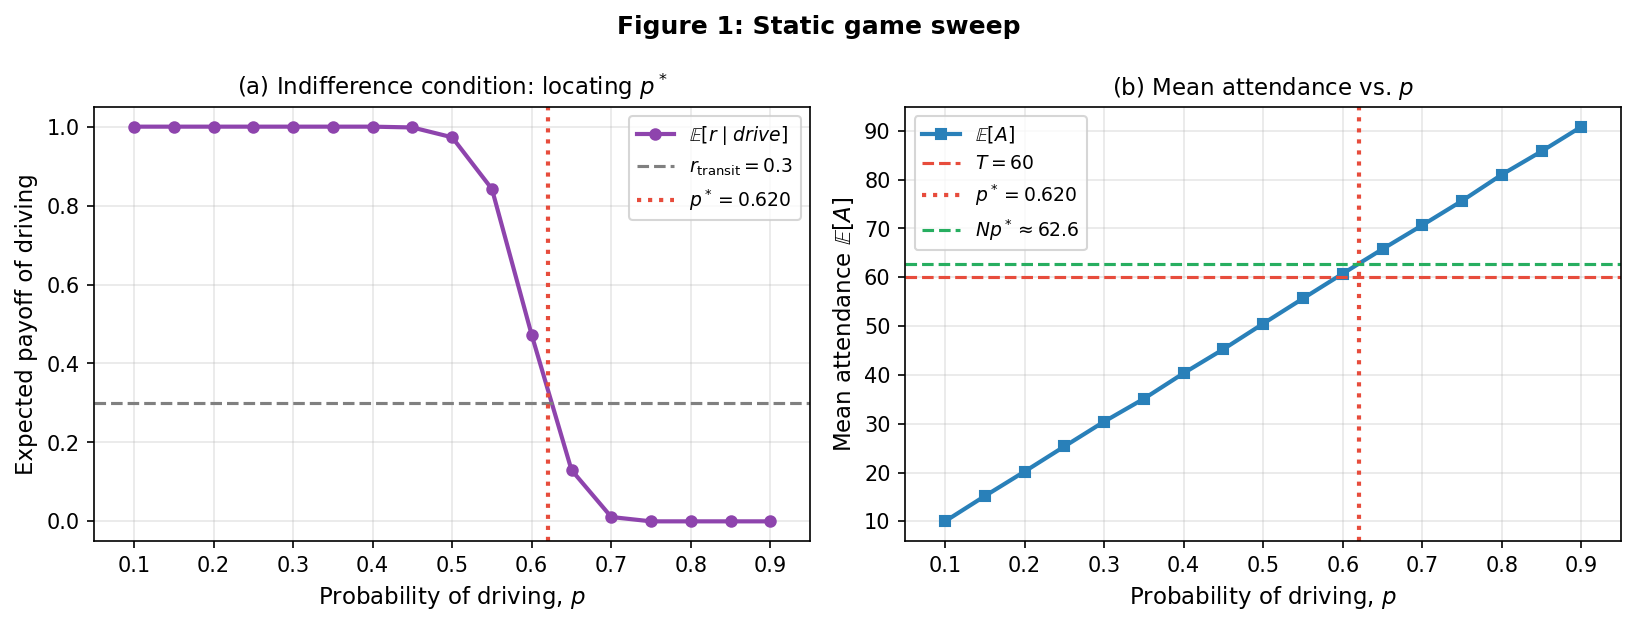
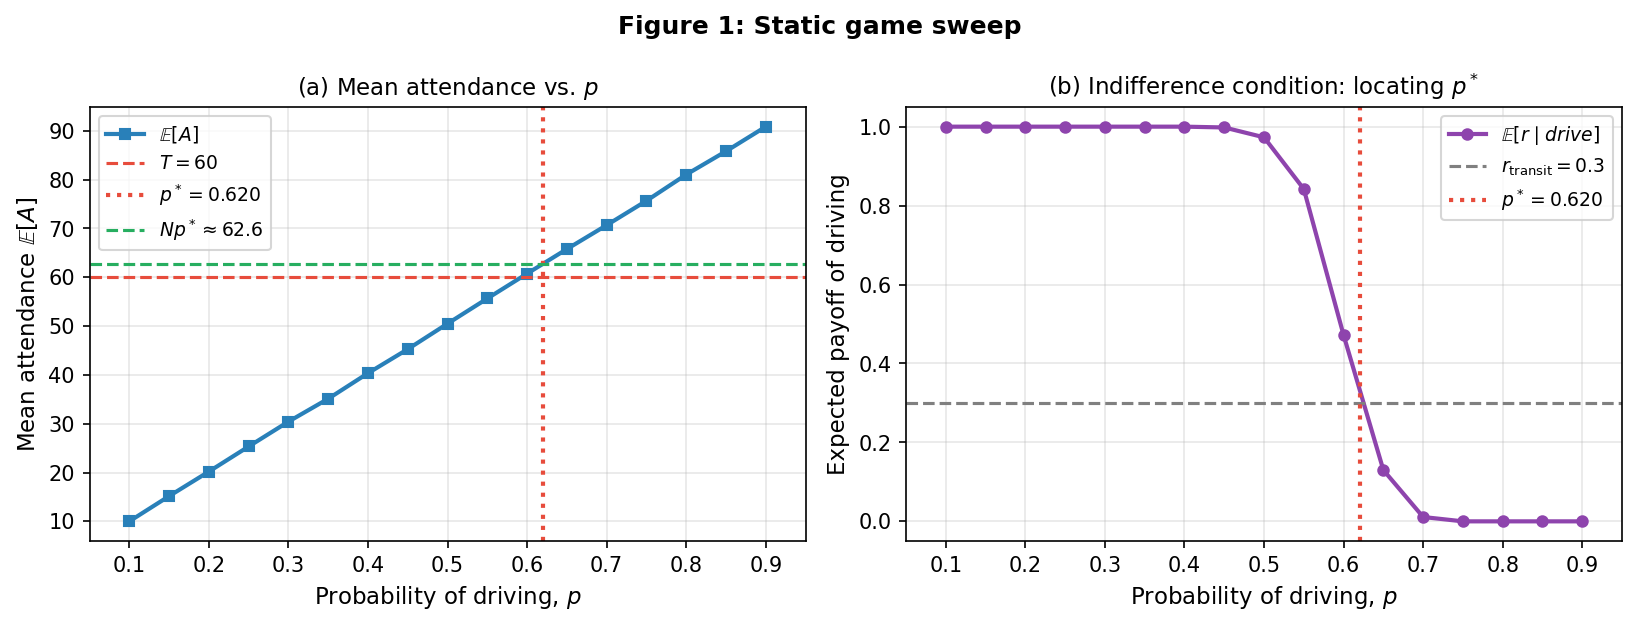
added welfare analysis and ablation, restructured to align with the gs, added real world discussions thru-out, added deeper theoretical analysis

diff --git a/report/my_report.md b/report/my_report.md
@@ -12,7 +12,7 @@ We study the minority game in the context of urban commuting, where 101 workers 
 
 ### 1.1 Motivating Context
 
-Every weekday morning, $N=101$ workers decide independently whether to **drive** or use **alternative transport** (public transit). The road has a capacity $T=60$: when at most 60 cars use it, traffic flows freely; when more than 60 enter, all drivers experience congestion. This is a **minority game**: a driver benefits only by being in the minority who chose to drive. The minority-game structure distinguishes this from coordination games (where agents want to match others' choices) and motivates adaptive rather than equilibrium-based decision-making.
+Every weekday morning, $N=101$ workers decide independently whether to **drive** or use **alternative transport** (public transit). The road has a capacity $T=60$: when at most 60 cars use it, traffic flows freely; when more than 60 enter, all drivers experience congestion. This is a minority game (Challet & Zhang, 1997): a driver benefits only by being in the minority who chose to drive. The minority-game structure distinguishes this from coordination games (where agents want to match others' choices) and motivates adaptive rather than equilibrium-based decision-making.
 
 ### 1.2 Normal-Form Game
 
@@ -99,16 +99,12 @@ In real commuting terms: a city that can direct exactly 60 daily drivers through
 
 ### 3.1 Numerical Verification of $p^*$
 
-Running 1,000 independent single-shot games for each $p \in \{0.10, 0.15, \ldots, 0.90\}$ confirms the analytical prediction. **Figure 1(a)** shows $\mathbb{E}[r \mid \textit{drive}]$ declining from near 1 at low $p$ to near 0 at high $p$, crossing $r_{\text{transit}} = 0.3$ precisely at $p^* \approx 0.62$, matching the Brent-method solution. **Figure 1(b)** plots mean attendance across the same sweep, confirming $\mathbb{E}[A] = Np^* \approx 62.6$ at the crossing point.
+Running 1,000 independent single-shot games for each $p \in \{0.10, 0.15, \ldots, 0.90\}$ confirms the analytical prediction. **Figure 1(a)** plots mean attendance across the same sweep, confirming $\mathbb{E}[A] = Np^* \approx 62.6$ at the crossing point. **Figure 1(b)** shows $\mathbb{E}[r \mid \textit{drive}]$ declining from near 1 at low $p$ to near 0 at high $p$, crossing $r_{\text{transit}} = 0.3$ precisely at $p^* \approx 0.62$, matching the Brent-method solution.
 
 ![Figure 1](figure1_static_sweep.png)
-*Figure 1: (a) Indifference condition -- $\mathbb{E}[r \mid drive]$ crosses $r_\text{transit}=0.3$ at $p^*\approx 0.62$. (b) Mean attendance $\mathbb{E}[A]$ vs $p$ across the full sweep, with $T$ and $Np^*$ marked.*
-
-// ab 图交换位置
+*Figure 1: (a) Mean attendance $\mathbb{E}[A]$ vs $p$ across the full sweep, with $T$ and $Np^*$ marked. (b) Indifference condition -- $\mathbb{E}[r \mid drive]$ crosses $r_\text{transit}=0.3$ at $p^*\approx 0.62$.*
 
 ### 3.2 Attendance Distribution at $p^*$
-
-【把500run 向之前对齐到1000】
 
 **Figure 2** shows 1000 independent single-shot outcomes at $p = p^*$. The empirical mean is $62.55 \approx Np^* = 62.64$, empirical standard deviation $\sigma = 4.93$, and theoretical binomial standard deviation $\sqrt{Np^*(1-p^*)} = 4.88$, a near-perfect agreement validating simulation fidelity. Congestion ($A > T = 60$) occurs in **65.4%** of rounds.
 
@@ -134,11 +130,13 @@ Note that this constitutes a best response to the *previous* period's outcome, n
 ![Figure 3](figure3_best_response.png)
 *Figure 3: Stage-game best-reply -- permanent 0--101 oscillation. Mean payoff $= (0.3 + 0)/2 = 0.15$, below the transit-only payoff.*
 
-This is an **oscillatory anti-coordination regime**: homogeneity of strategies simultaneously coordinates overcrowding and complete avoidance, earning mean per-agent payoff $0.15$, half of the payoff $0.30$ achieved by any fixed strategy such as always driving, always using transit, or randomising at $p^*$. The dynamic instability of symmetric pure NE (Section 2.1) manifests here as a limit cycle. The result also shows that the symmetric mixed NE at $p^* = 0.62$ is not a dynamical attractor: no simple reactive rule applied uniformly by all agents converges to it.
+This is an oscillatory anti-coordination regime. Homogeneity of strategies simultaneously coordinates overcrowding and complete avoidance, earning mean per-agent payoff 0.15, half of the payoff 0.30 achieved by any fixed strategy such as always driving, always using transit, or randomising at p*.
 
-For commuting applications: a navigation system that broadcasts a single uniform recommendation to all users would replicate this failure. Universal adoption of a single reactive rule on a heavily used road creates the oscillatory pattern qualitatively consistent with periodic flow waves observed on instrumented ring roads.
+The dynamic instability of symmetric pure NE (Section 2.1) manifests here as a limit cycle: all agents apply the same rule to the same public signal At−1 perpetually overshoot in both directions rather than settling at any fixed point. The result also shows that the symmetric mixed NE at p*=0.62 is not a dynamical attractor: no simple reactive rule applied uniformly by all agents converges to it.
 
-This motivates the inductive approach, where agents use heterogeneous predictors to achieve coordination near the threshold without requiring common knowledge or communication.
+This failure is not specific to Best-Reply: it applies to any homogeneous reactive rule. For commuting applications, a navigation system broadcasting a single uniform recommendation replicates this failure, and universal adoption of one reactive rule produces oscillatory flow waves qualitatively consistent with those observed on instrumented ring roads (Cabannes et al., 2018).
+
+This motivates the inductive approach: heterogeneous predictors break the synchronisation that homogeneous rules cannot escape.
 
 ### 4.2 Inductive Strategies
 
@@ -192,7 +190,7 @@ Convergence is not the result of agents computing $p^*$. Rather, the **compositi
 
 - Stage-game best-reply: $0.150$ (oscillatory anti-coordination regime)
 - Uncorrelated random play at $p^*$: $\approx 0.300$ (mixed NE, as expected from the indifference condition)
-- Inductive (mean across seeds 42, 123, 7): $\approx 0.306$
+- Inductive (mean ac ross seeds 42, 123, 7): $\approx 0.306$
 
 Individual seed payoffs are [0.294, 0.300, 0.323], with seed 42 being the only seed that falls marginally below the 0.300 benchmark. The cross-seed mean exceeds the benchmark; results are not uniformly above it. The principal advantage of inductive agents over uncorrelated random play is not the raw payoff difference -- which is small -- but the **reduced congestion rate** (46% vs 65%) and lower variance in individual outcomes.
 
@@ -252,19 +250,17 @@ Note that the homogeneous result depends on which six predictors are randomly dr
 
 ### 6.1 Endogenous Coordination Without Communication
 
-The inductive model shows that individual commuters, each independently applying a personal decision model, can produce near-threshold attendance without explicit communication or central authority. The mechanism is the **composition of active predictors**: predictors forecasting below $T$ attract more drivers, increasing attendance toward congestion and thereby penalising those predictors; predictors forecasting above $T$ then gain score, reducing driving the following round. This feedback cycle operates entirely through distributed score updates. The result is the core finding of Arthur (1994): bounded-rational induction can produce coordination outcomes without the common-knowledge assumptions required by equilibrium reasoning.
+The inductive model confirms Arthur's (1994) core finding: bounded-rational agents, each applying a personal predictor independently, produce near-threshold coordination without communication or central authority. The feedback mechanism is entirely distributed, as predictors forecasting below T attract more drivers, increasing congestion and penalising those predictors; predictors forecasting above T then gain score, reducing driving the following round.
 
 ### 6.2 Implications for Navigation Systems and Congestion Policy
 
-The homogeneous simulation represents a scenario in which all commuters receive recommendations from the same navigation algorithm: their predictor pools become effectively identical. The result (Figure 7, lower panel) is synchronised oscillation. This pattern has been observed qualitatively in urban networks where dominant navigation applications simultaneously reroute large volumes of traffic onto previously uncongested roads. The minority game provides the formal mechanism: a single shared predictor removes the distributional diversity that produces aggregate stability.
+The homogeneous simulation models universal adoption of a single navigation algorithm. The result, synchronised oscillation (Figure 7), provides the formal mechanism behind observed traffic waves when dominant apps simultaneously reroute large volumes. Predictor diversity is structurally necessary for stability.
 
 The welfare analysis (Section 2.3) quantifies the policy case: a mechanism directing exactly $T=60$ drivers each morning achieves per-agent welfare $0.716$ versus the mixed NE baseline of $0.300$, approximately doubling per-agent welfare and providing a quantifiable motivation for road pricing or permit-based rationing schemes.
 
-### 6.3 Predictor Richness and Model Limitations
+### 6.3 Model Limitations
 
-The novel predictors contribute approximately 6--15% payoff improvement (mainly through thresh-prox), consistent with Arthur's observation that no predictor is universally superior: the value of any predictor depends on what others are using. A thresh-prox predictor that performs well when rare becomes counterproductive if adopted universally, since coordinated mean-reversion would reproduce oscillation of its own.
-
-**Relaxing model assumptions.** Heterogeneous travel costs would introduce agent-specific indifference thresholds, shifting the effective $p^*$ and altering which predictors dominate in the stable predictor distribution. Departure-time flexibility would expand the strategy space from binary to continuous, transforming the problem into a scheduling game. Information asymmetry (some drivers with real-time feeds, others without) would produce a stratified predictor landscape, with informed agents systematically outperforming uninformed ones. These extensions remain directions for future work.
+Heterogeneous travel costs would introduce agent-specific indifference thresholds; departure-time flexibility would expand the strategy space from binary to continuous; information asymmetry would stratify the predictor landscape, with informed agents systematically outperforming uninformed ones. These remain directions for future work.
 
 ---
 
@@ -277,6 +273,10 @@ The minority game demonstrates the tension between individual rationality and co
 ## References
 
 Arthur, W. B. (1994). Inductive reasoning and bounded rationality. *American Economic Review*, 84(2), 406--411.
+
+Challet, D., & Zhang, Y. C. (1997). Emergence of cooperation and organization in an evolutionary game. *Physica A* , 246(3-4), 407-418.
+
+Cabannes, T., Vincentelli, M. A. S., Sundt, A., Signargout, H., Porter, E., & Bayen, A. M. (2018). The impact of GPS-enabled shortest path routing on mobility: a game theoretic approach. *Transportation Research Part B* , 117, 486--504.
 
 ---
 
